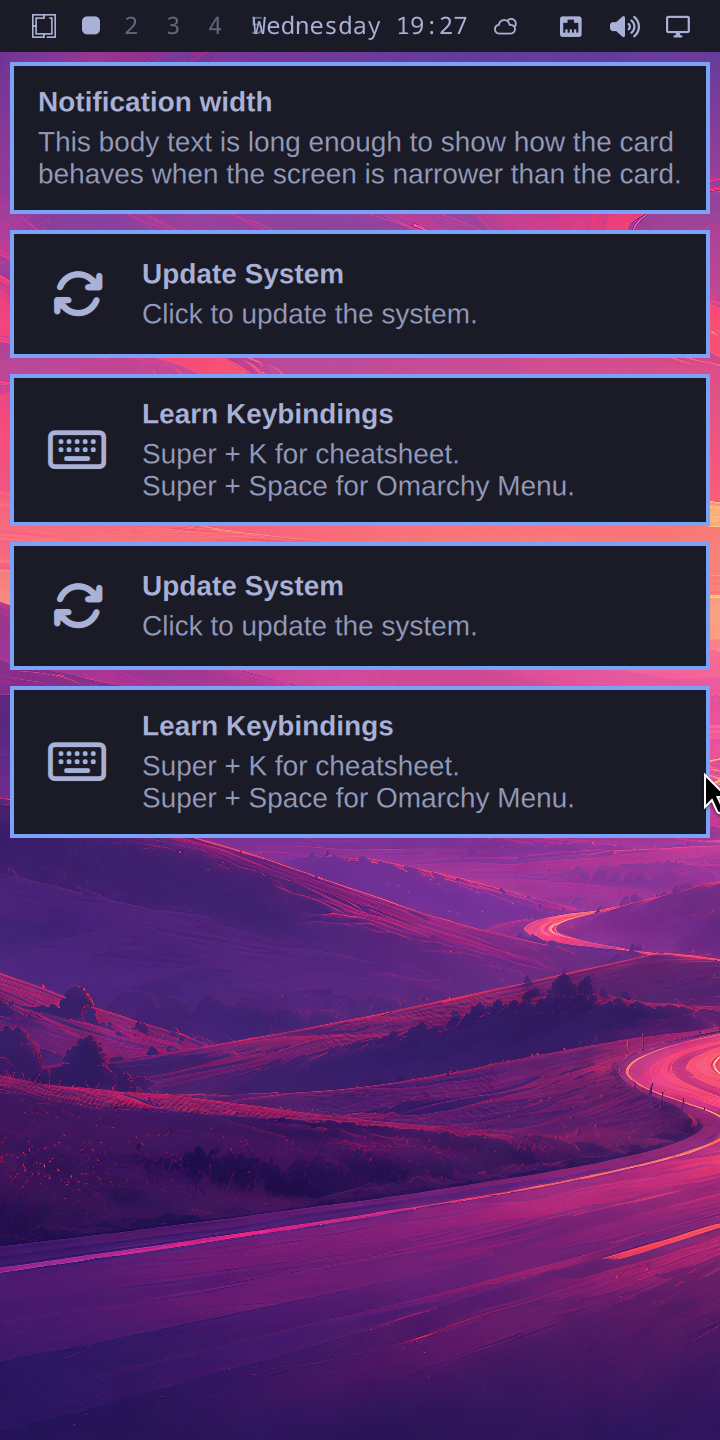
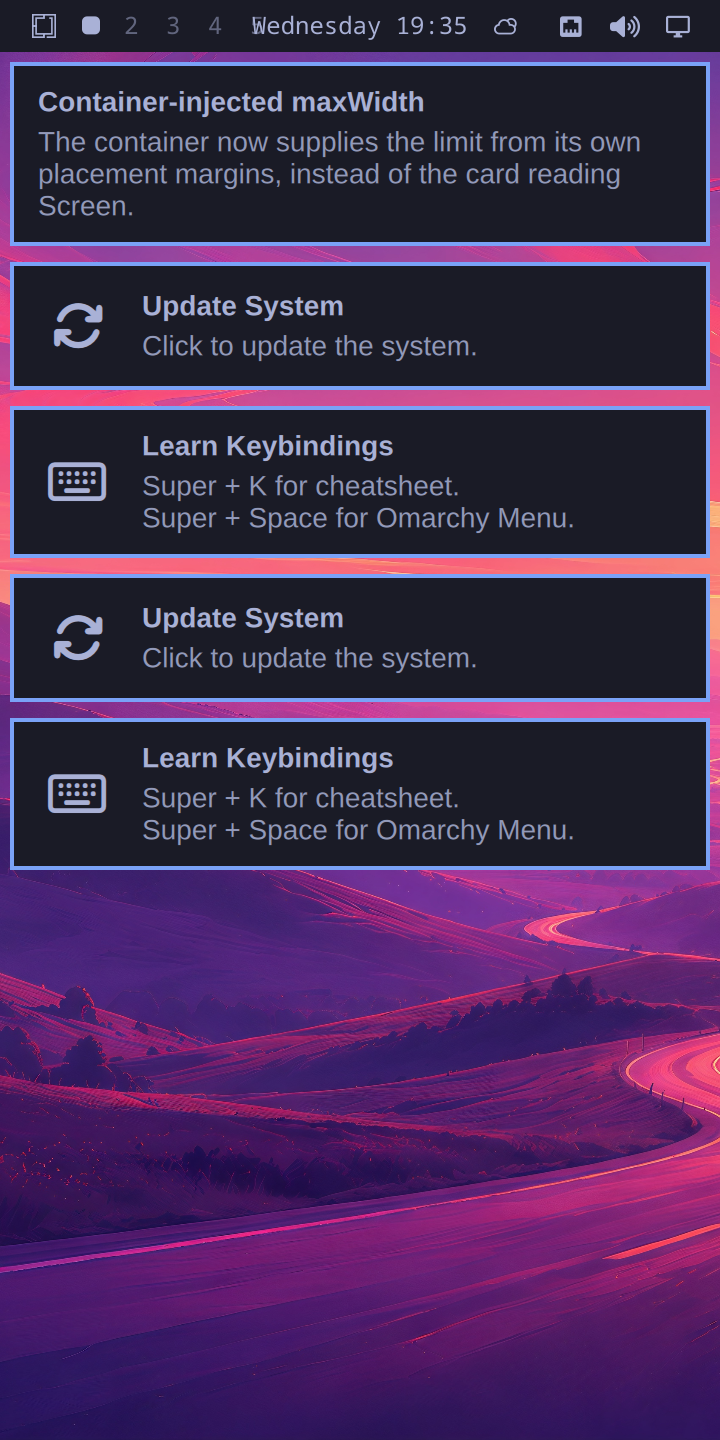
Let the container inject the notification width limit
The first version had NotificationCard clamp against Screen.width itself. That
works, but it is against the grain of the file: its header says 'Pure
presentational', and cornerRadius and fontFamily are both injected by the
container. A card reading global screen state is the odd one out, and it would
be wrong the moment the card is used anywhere that is not full-screen -- which
the same header says the history panel does.

So the card takes a maxWidth property and the popup column supplies it, derived
from the placement margins the container already computes. No magic factor, and
it stays correct when the bar is on the right edge and margins.right becomes the
bar clearance instead of the gap.

Also removes a latent transient: Screen.width is 0 before the item is attached
to a window, which made implicitWidth briefly negative. maxWidth defaults to 0
and is explicitly treated as unconstrained.

Verified at both ends: 350 and wrapping at 360 logical, an unchanged 380 at
1920x1080.

Changed region(s): [[0.0, 0.0625, 1.0, 0.625], [0.6111, 0.0, 0.6417, 0.0312]]

diff --git a/README.md b/README.md
@@ -162,12 +162,29 @@ first character of every line with them.
   <img src="docs/screenshots/notifications-after.png" width="38%" alt="After: cards clamped to the screen with symmetric insets">
 </p>
 
-The fix is one expression, and it is a no-op on any screen wider than about 390
-logical pixels:
+The fix follows the card's own stated contract. Its header says *"Pure
+presentational"*, and `cornerRadius` and `fontFamily` are both **injected by the
+container** — so the width limit arrives the same way, rather than the card
+reaching out to `Screen`:
 
 ```qml
-implicitWidth: Math.min(Style.space(380), Screen.width - 2 * Style.gapsOut)
+// NotificationCard.qml -- 0 leaves the card at its natural width
+property real maxWidth: 0
+implicitWidth: maxWidth > 0 ? Math.min(Style.space(380), maxWidth) : Style.space(380)
+
+// Service.qml -- the container knows how much room it has
+maxWidth: popupWindow.width
+          - popupWindow.popupPlacement.margins.left
+          - popupWindow.popupPlacement.margins.right
 ```
+
+The margins come from `popupPlacement`, which the container already computes, so
+there is no magic factor — and it stays correct when the bar is on the right
+edge, where `margins.right` becomes the bar clearance rather than the gap.
+
+Measured in the VM at both ends: at 360 logical the card clamps to 350 and wraps;
+at 1920×1080 `maxWidth` is 1910, `Math.min` returns 380, and the toast is
+byte-identical to upstream's.
 
 Patches apply with `--fuzz=0` and no offset, so a moved upstream fails the build
 and names the hunk rather than landing a change where it was never aimed — the
